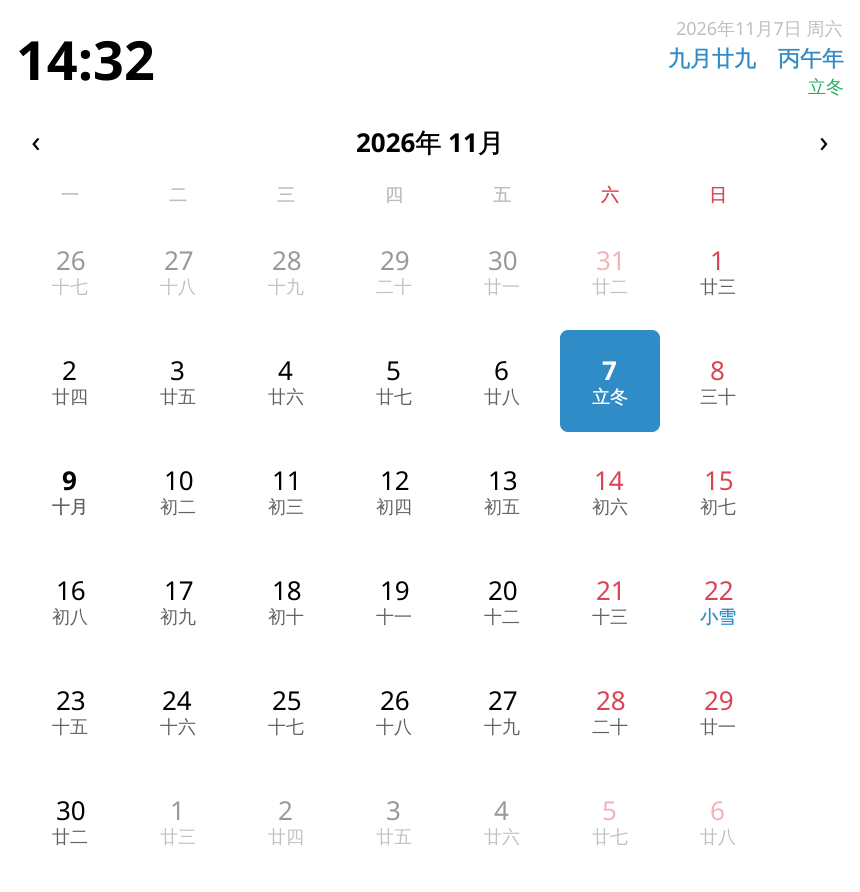
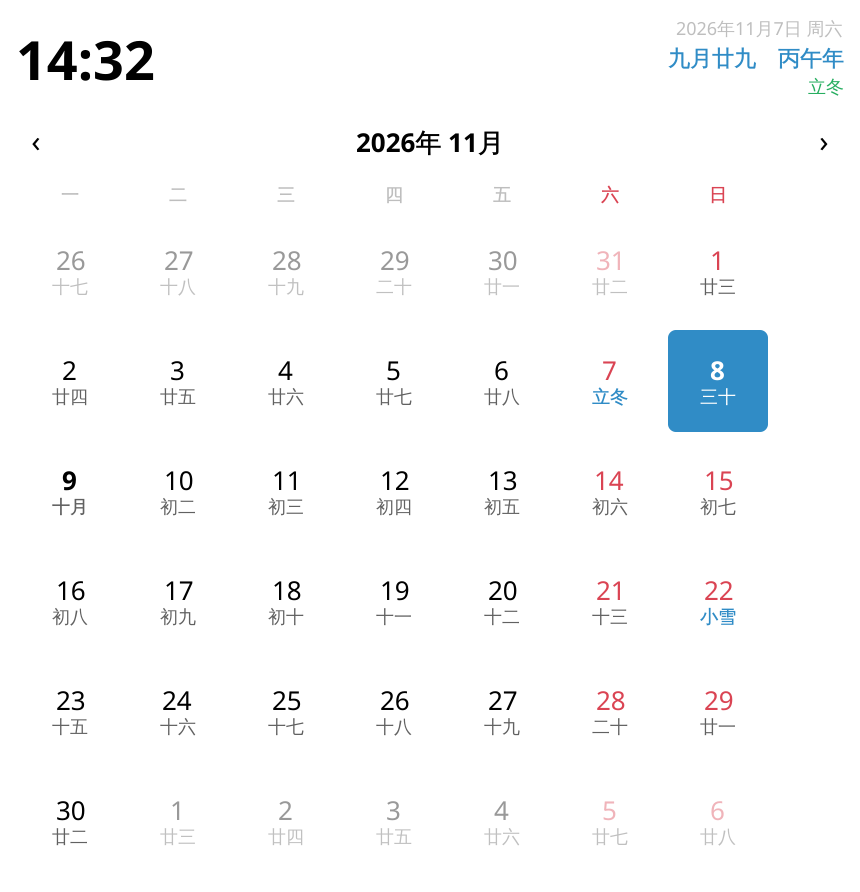
chore: 仓库改名为 plasma-Chinese-Calendar-clock，同步所有链接；预览脚本改用相对路径

Changed region(s): [[0.6349, 0.3632, 0.907, 0.4843]]

diff --git a/scripts/preview-holiday.qml b/scripts/preview-holiday.qml
@@ -43,7 +43,7 @@ Window {
         running: true
         onTriggered: {
             win.contentItem.grabToImage(function (result) {
-                result.saveToFile("/home/tifa/code/plasma-lunar-clock/preview/holiday.png")
+                result.saveToFile(Qt.resolvedUrl("../preview/holiday.png").toString().replace(/^file:\/\//, ""))
                 console.log("saved preview/holiday.png")
                 Qt.quit()
             })

diff --git a/scripts/preview-panel.qml b/scripts/preview-panel.qml
@@ -38,7 +38,7 @@ Window {
         running: true
         onTriggered: {
             win.contentItem.grabToImage(function (result) {
-                result.saveToFile("/home/tifa/code/plasma-lunar-clock/preview/panel.png")
+                result.saveToFile(Qt.resolvedUrl("../preview/panel.png").toString().replace(/^file:\/\//, ""))
                 console.log("saved preview/panel.png")
                 Qt.quit()
             })

diff --git a/scripts/preview-full.qml b/scripts/preview-full.qml
@@ -41,7 +41,7 @@ Window {
         running: true
         onTriggered: {
             win.contentItem.grabToImage(function (result) {
-                result.saveToFile("/home/tifa/code/plasma-lunar-clock/preview/full.png")
+                result.saveToFile(Qt.resolvedUrl("../preview/full.png").toString().replace(/^file:\/\//, ""))
                 console.log("saved preview/full.png")
                 Qt.quit()
             })

diff --git a/README.md b/README.md
@@ -2,7 +2,7 @@
 
 [![License: GPL-2.0-or-later](https://img.shields.io/badge/license-GPL--2.0--or--later-blue.svg)](LICENSE)
 [![Plasma 6](https://img.shields.io/badge/KDE%20Plasma-6-1d99f3.svg)](https://kde.org/plasma-desktop/)
-[![更新节假日数据](https://github.com/yuanphoenix/plasma-lunar-clock/actions/workflows/update-holidays.yml/badge.svg)](https://github.com/yuanphoenix/plasma-lunar-clock/actions/workflows/update-holidays.yml)
+[![更新节假日数据](https://github.com/yuanphoenix/plasma-Chinese-Calendar-clock/actions/workflows/update-holidays.yml/badge.svg)](https://github.com/yuanphoenix/plasma-Chinese-Calendar-clock/actions/workflows/update-holidays.yml)
 
 一个 KDE Plasma 6 桌面部件：**面板上就是个数字时钟，悬停显示农历，点开是带节假日与调休的中式月历。**
 
@@ -40,8 +40,8 @@
 ### 从源码
 
 ```sh
-git clone https://github.com/yuanphoenix/plasma-lunar-clock.git
-cd plasma-lunar-clock
+git clone https://github.com/yuanphoenix/plasma-Chinese-Calendar-clock.git
+cd plasma-Chinese-Calendar-clock
 ./scripts/install.sh
 ```
 

diff --git a/docs/kde-store.md b/docs/kde-store.md
@@ -4,8 +4,8 @@
 分类：**KDE Plasma Extensions → Plasma 6 Applets**（或 “Plasma 6 Applets / Date and Time” 子类，按现有同类产品选）
 上传文件：`dist/io.github.yuanphoenix.lunarclock-1.0.0.plasmoid`（先跑 `./scripts/build-package.sh`）
 许可证：GPL-2.0-or-later
-源码：https://github.com/yuanphoenix/plasma-lunar-clock
-主页：https://github.com/yuanphoenix/plasma-lunar-clock
+源码：https://github.com/yuanphoenix/plasma-Chinese-Calendar-clock
+主页：https://github.com/yuanphoenix/plasma-Chinese-Calendar-clock
 
 ## 标题
 
